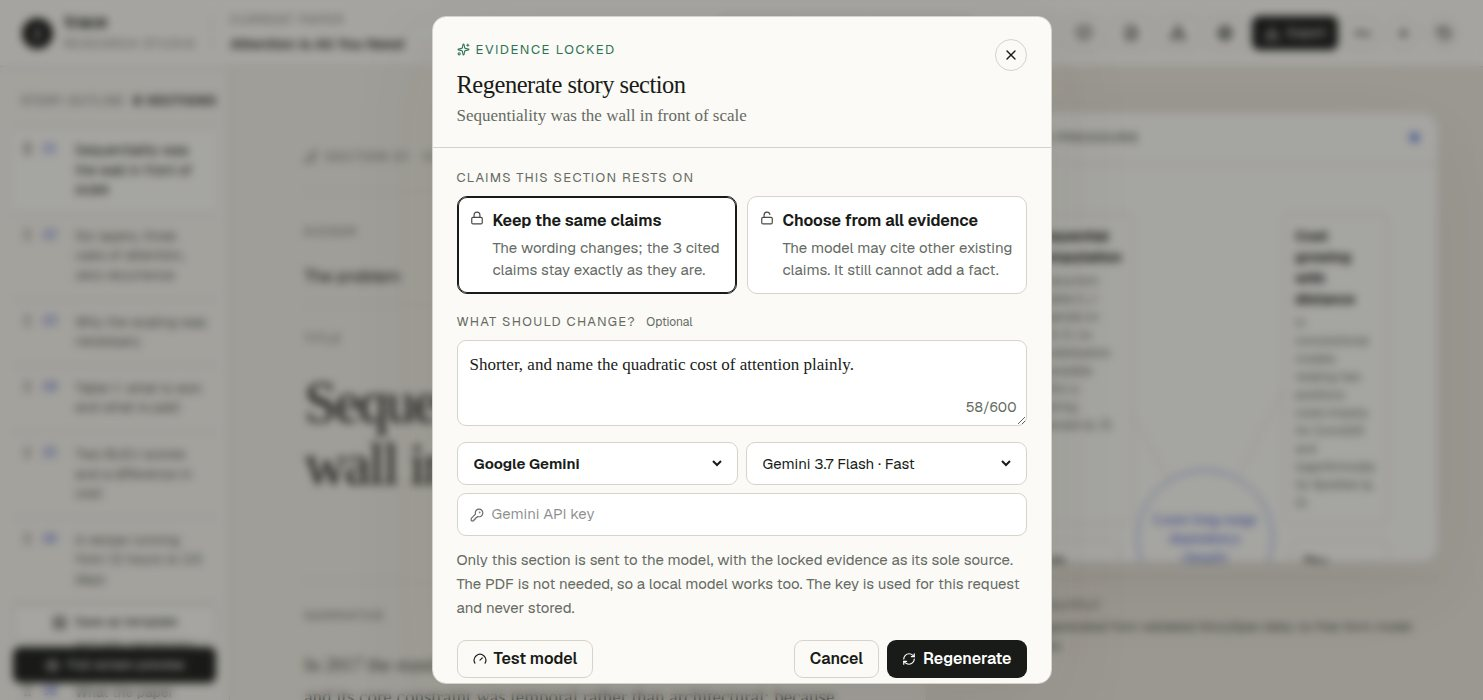
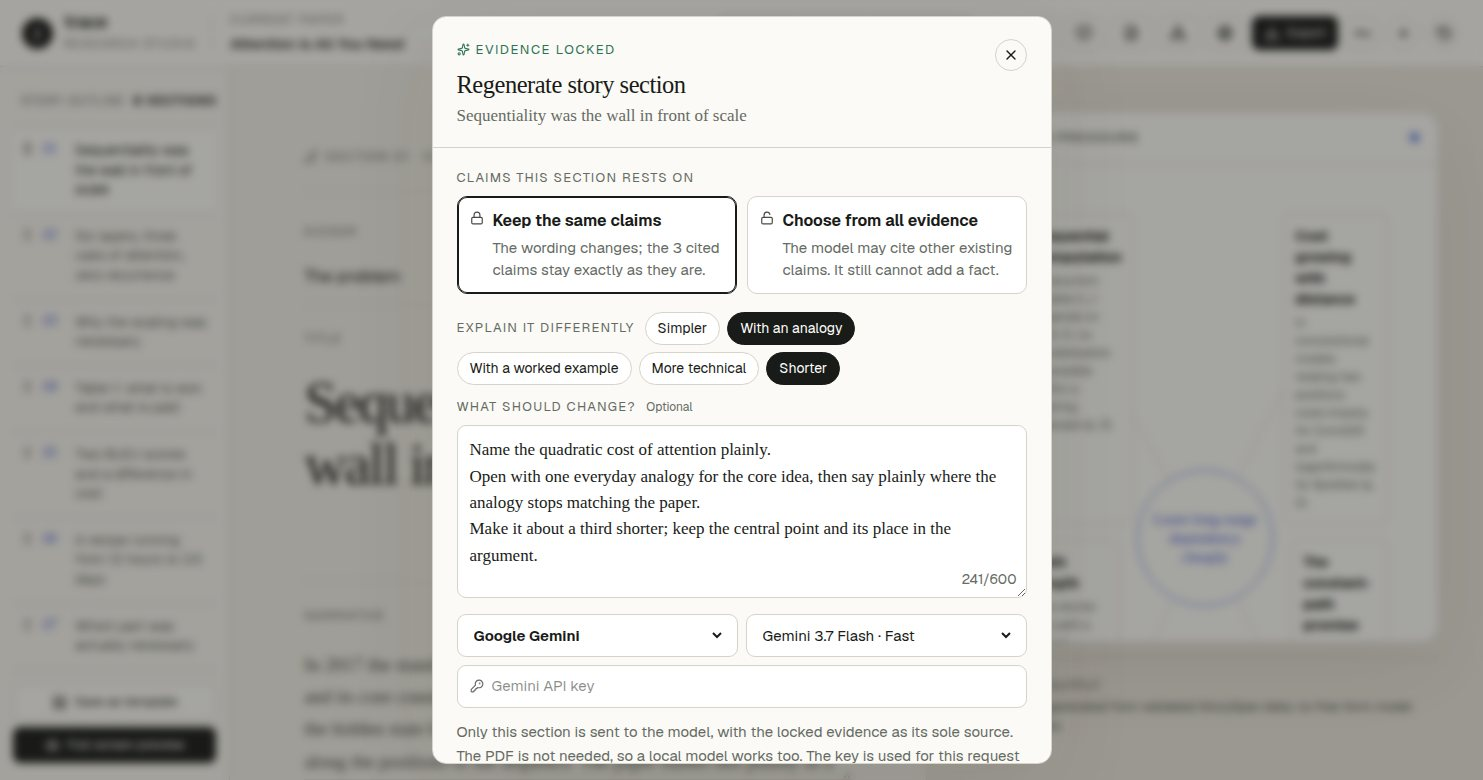
feat: one click asks for a section explained differently
The regenerate dialog now offers quick requests per kind of section:
simpler, with an analogy, with a worked example, more technical or
shorter for story and report sections; harder, easier or a misconception
test for quiz questions; smaller steps or intuition first for
derivations; symbol-by-symbol readings for equations. Each request lands
in the text box as a plain line, so the reader sees and can edit what the
model receives. Requests combine, opposite ones replace each other, and
a request that would overflow the limit is disabled instead of cutting
the reader's own text. Worked-example requests keep the evidence rule:
numbers come from the paper or are marked illustrative.

Claude-Session: https://claude.ai/code/session_01G2h2AZCsPvmxhdU5Cg5ADb

diff --git a/src/lib/rewrite-presets.ts b/src/lib/rewrite-presets.ts
@@ -1,0 +1,170 @@
+import { MAX_REGENERATION_INSTRUCTION, type SectionKind } from "./section-regeneration";
+
+/**
+ * "Farklı anlat" için hazır istekler.
+ *
+ * Okuyucu çoğu zaman ne istediğini biliyor ("daha basit", "bir benzetmeyle")
+ * ama bunu modele nasıl söyleyeceğini bilmiyor; boş bir metin kutusu bu
+ * yüzden çoğunlukla boş gönderiliyordu. Her hazır istek kutuya bir satır
+ * olarak ekleniyor: okuyucu ne gönderileceğini görüyor, birleştirebiliyor ve
+ * düzenleyebiliyor. İstekler kanıt kilidini gevşetmiyor; sayı isteyenler
+ * sayının kanıttan gelmesini ya da açıkça temsilî olduğunu söylüyor.
+ *
+ * Model istemi İngilizce; model okuyucuya yine projenin dilinde yazıyor.
+ */
+export type RewritePreset = {
+  id: string;
+  label: string;
+  instruction: string;
+  /** Birlikte anlamsız olan istekler ("daha basit" ile "daha teknik"). */
+  excludes?: readonly string[];
+};
+
+const simpler = (excludes: string[] = ["technical"]): RewritePreset => ({
+  id: "simpler",
+  label: "Simpler",
+  instruction: "Explain it more simply: shorter sentences, everyday words, and define each technical term where it first appears.",
+  excludes,
+});
+
+const analogy: RewritePreset = {
+  id: "analogy",
+  label: "With an analogy",
+  instruction: "Open with one everyday analogy for the core idea, then say plainly where the analogy stops matching the paper.",
+};
+
+const evidenceExample: RewritePreset = {
+  id: "example",
+  label: "With a worked example",
+  instruction: "Walk through one concrete example, step by step. Use only numbers the evidence reports; if none fit, keep the example qualitative.",
+};
+
+const technical: RewritePreset = {
+  id: "technical",
+  label: "More technical",
+  instruction: "Be more technical: name the mechanism precisely, keep the paper's own terms and notation, and drop the introductory framing.",
+  excludes: ["simpler"],
+};
+
+const shorter: RewritePreset = {
+  id: "shorter",
+  label: "Shorter",
+  instruction: "Make it about a third shorter; keep the central point and its place in the argument.",
+};
+
+export const REWRITE_PRESETS: Record<SectionKind, readonly RewritePreset[]> = {
+  story: [simpler(), analogy, evidenceExample, technical, shorter],
+  report: [
+    simpler(),
+    {
+      id: "separate",
+      label: "Measured vs. interpreted",
+      instruction: "Separate clearly what the authors measured from how they interpret it, and say what the evidence does not show.",
+    },
+    evidenceExample,
+    technical,
+    shorter,
+  ],
+  primer: [
+    simpler([]),
+    analogy,
+    {
+      id: "example",
+      label: "With a worked example",
+      instruction: "Add one small worked example with concrete numbers; take them from the evidence where possible and say when a number is only for illustration.",
+    },
+    {
+      id: "connect",
+      label: "Tie it to the paper",
+      instruction: "Say exactly where this paper relies on the concept, and what a reader who skipped it would misunderstand.",
+    },
+  ],
+  quiz: [
+    {
+      id: "harder",
+      label: "Harder",
+      instruction: "Make it harder: test reasoning about why the result holds, not recall of a number or a phrase.",
+      excludes: ["easier"],
+    },
+    {
+      id: "easier",
+      label: "Easier",
+      instruction: "Make it easier: ask about the paper's central point in plain words, with one clearly right option.",
+      excludes: ["harder"],
+    },
+    {
+      id: "misconception",
+      label: "Test a misconception",
+      instruction: "Build the wrong options from plausible misreadings of the paper, such as taking the authors' interpretation for a measured result.",
+    },
+    {
+      id: "explain",
+      label: "Better explanations",
+      instruction: "Make every option's explanation say why it is right or wrong, pointing at the evidence it rests on.",
+    },
+  ],
+  derivation: [
+    {
+      id: "smaller",
+      label: "Smaller steps",
+      instruction: "Use smaller steps: one operation per step, and say which assumption each step uses.",
+    },
+    {
+      id: "intuition",
+      label: "Intuition first",
+      instruction: "Before the steps, say in one or two sentences what the derivation shows and why the paper needs it.",
+    },
+    {
+      id: "example",
+      label: "With a worked example",
+      instruction: "Add a numeric example that follows the steps. Take its numbers from the evidence metrics, or mark the example as illustrative.",
+    },
+  ],
+  equation: [
+    {
+      id: "symbols",
+      label: "Explain each symbol",
+      instruction: "Explain every symbol in plain words, with its unit or shape where it has one.",
+    },
+    {
+      id: "why",
+      label: "Why each term",
+      instruction: "Say what would change without each term, and why the authors need it.",
+    },
+    simpler([]),
+  ],
+};
+
+export function rewritePresets(kind: SectionKind) {
+  return REWRITE_PRESETS[kind];
+}
+
+export function isPresetActive(instruction: string, preset: RewritePreset) {
+  return instruction.includes(preset.instruction);
+}
+
+function withoutPreset(instruction: string, preset: RewritePreset) {
+  if (!isPresetActive(instruction, preset)) return instruction;
+  // Kutuya eklenen satır kendi satırında duruyor; okuyucu onu bir cümlenin
+  // içine taşıdıysa yalnızca o parça çıkıyor.
+  const lines = instruction.split("\n").filter((line) => line.trim() !== preset.instruction);
+  return lines.join("\n").split(preset.instruction).join("").replace(/[ \t]{2,}/g, " ").replace(/\n{3,}/g, "\n\n").trim();
+}
+
+/**
+ * Hazır isteği kutuya ekler ya da kutudan çıkarır. Okuyucunun kendi yazdığı
+ * metin yerinde kalıyor; çelişen istek (daha basit ↔ daha teknik) çıkıyor.
+ * Sonuç sınırı aşacaksa `undefined`: arayüz o düğmeyi kapatıyor.
+ */
+export function togglePreset(kind: SectionKind, instruction: string, id: string): string | undefined {
+  const presets = REWRITE_PRESETS[kind];
+  const preset = presets.find((item) => item.id === id);
+  if (!preset) return instruction;
+  if (isPresetActive(instruction, preset)) return withoutPreset(instruction, preset);
+  const cleared = presets
+    .filter((item) => preset.excludes?.includes(item.id))
+    .reduce((text, item) => withoutPreset(text, item), instruction)
+    .trim();
+  const next = cleared ? `${cleared}\n${preset.instruction}` : preset.instruction;
+  return next.length > MAX_REGENERATION_INSTRUCTION ? undefined : next;
+}

diff --git a/src/lib/rewrite-presets.test.ts b/src/lib/rewrite-presets.test.ts
@@ -1,0 +1,55 @@
+import { describe, expect, it } from "vitest";
+import { REWRITE_PRESETS, isPresetActive, togglePreset } from "./rewrite-presets";
+import { MAX_REGENERATION_INSTRUCTION, sectionKinds } from "./section-regeneration";
+
+describe("quick rewrite requests", () => {
+  it("offers every kind of section a few requests that fit the limit together", () => {
+    for (const kind of sectionKinds) {
+      const presets = REWRITE_PRESETS[kind];
+      expect(presets.length, kind).toBeGreaterThanOrEqual(3);
+      expect(new Set(presets.map((preset) => preset.id)).size, kind).toBe(presets.length);
+      for (const preset of presets) {
+        for (const excluded of preset.excludes ?? []) expect(presets.some((item) => item.id === excluded), `${kind}/${preset.id}`).toBe(true);
+      }
+      // Birbirini dışlamayanların hepsi aynı anda seçilebiliyor.
+      let all = "";
+      for (const preset of presets) {
+        const next = togglePreset(kind, all, preset.id);
+        expect(next, `${kind}/${preset.id}`).toBeDefined();
+        all = next!;
+      }
+      expect(all.length, kind).toBeLessThanOrEqual(MAX_REGENERATION_INSTRUCTION);
+    }
+  });
+
+  it("never asks for numbers the evidence does not have without saying so", () => {
+    for (const kind of sectionKinds) {
+      for (const preset of REWRITE_PRESETS[kind].filter((item) => item.id === "example")) {
+        expect(preset.instruction, `${kind}/${preset.id}`).toMatch(/evidence/);
+        expect(preset.instruction, `${kind}/${preset.id}`).toMatch(/only numbers the evidence|illustrat/);
+      }
+    }
+  });
+
+  it("adds a request on its own line and takes it out again, the reader's text kept", () => {
+    const withAnalogy = togglePreset("story", "Keep the timeline.", "analogy")!;
+    expect(withAnalogy.split("\n")).toEqual(["Keep the timeline.", REWRITE_PRESETS.story.find((preset) => preset.id === "analogy")!.instruction]);
+    expect(togglePreset("story", withAnalogy, "analogy")).toBe("Keep the timeline.");
+  });
+
+  it("swaps out the opposite request instead of sending both", () => {
+    const simpler = togglePreset("story", "", "simpler")!;
+    const technical = togglePreset("story", simpler, "technical")!;
+    const [simplerPreset, technicalPreset] = ["simpler", "technical"].map((id) => REWRITE_PRESETS.story.find((preset) => preset.id === id)!);
+    expect(isPresetActive(technical, technicalPreset)).toBe(true);
+    expect(isPresetActive(technical, simplerPreset)).toBe(false);
+    const easier = togglePreset("quiz", togglePreset("quiz", "", "harder")!, "easier")!;
+    expect(easier).toBe(REWRITE_PRESETS.quiz.find((preset) => preset.id === "easier")!.instruction);
+  });
+
+  it("refuses a request that would not fit, rather than cutting the reader's text", () => {
+    const full = "x".repeat(MAX_REGENERATION_INSTRUCTION - 20);
+    expect(togglePreset("story", full, "shorter")).toBeUndefined();
+    expect(togglePreset("story", full, "unknown")).toBe(full);
+  });
+});

diff --git a/e2e/studio.spec.ts b/e2e/studio.spec.ts
@@ -6,6 +6,7 @@ import type { ResearchProject } from "../src/lib/schema";
 import { UNDO_WINDOW_MS } from "../src/lib/pending-deletion";
 import { TRACE_ACCENT_PALETTE } from "../src/lib/trace-storage";
 import { readingDrillFor } from "../src/lib/reading-drill";
+import { REWRITE_PRESETS } from "../src/lib/rewrite-presets";
 
 /**
  * Stüdyonun paneller arası akışları. Model çağrısı gereken iki uç
@@ -106,6 +107,42 @@ test.describe("section regeneration", () => {
       const { revisions } = (await response.json()) as { revisions: Array<{ reason: string }> };
       return revisions.map((revision) => revision.reason);
     }).toContain("regenerate");
+  });
+
+  test("turns a quick request into the instruction the model receives", async ({ page, request }) => {
+    const project = await seed(request, projectNamed("e2e-presets"));
+    const section = project.story.sections[0];
+    const preset = (id: string) => REWRITE_PRESETS.story.find((item) => item.id === id)!.instruction;
+    let sent = "";
+
+    await page.route("**/api/regenerate", async (route) => {
+      sent = (route.request().postDataJSON() as { instruction: string }).instruction;
+      await route.fulfill({
+        status: 200,
+        headers: { "Content-Type": "application/x-ndjson" },
+        body: `${JSON.stringify({ type: "section", target: { kind: "story", sectionId: section.id }, section: { ...section, body: "Simpler, with an analogy." }, evidenceFingerprint: evidenceFingerprint(project.evidence) })}\n`,
+      });
+    });
+
+    await openStory(page, project.id);
+    await page.locator(".regen-trigger").first().click();
+    const dialog = page.getByRole("dialog");
+    const quick = dialog.getByRole("group", { name: "Quick requests" });
+    const field = dialog.getByRole("textbox", { name: /What should change/ });
+
+    await field.fill("Keep the timeline.");
+    await quick.getByRole("button", { name: "More technical" }).click();
+    await quick.getByRole("button", { name: "With an analogy" }).click();
+    // "Simpler" ile "More technical" birlikte gönderilmiyor.
+    await quick.getByRole("button", { name: "Simpler" }).click();
+    await expect(quick.getByRole("button", { name: "Simpler" })).toHaveAttribute("aria-pressed", "true");
+    await expect(quick.getByRole("button", { name: "More technical" })).toHaveAttribute("aria-pressed", "false");
+    await expect(field).toHaveValue(["Keep the timeline.", preset("analogy"), preset("simpler")].join("\n"));
+
+    await dialog.getByLabel("Gemini API key").fill("test-key");
+    await dialog.getByRole("button", { name: "Regenerate", exact: true }).click();
+    await expect(page.locator(".regen-preview").nth(1)).toContainText("Simpler, with an analogy.");
+    expect(sent).toBe(["Keep the timeline.", preset("analogy"), preset("simpler")].join("\n"));
   });
 
   test("rewrites one quiz question in the practice tab", async ({ page, request }) => {

diff --git a/src/app/globals.css b/src/app/globals.css
@@ -483,9 +483,15 @@ span.library-tag { cursor: default; }
 .regen-policy svg { flex: 0 0 auto; margin-top: 2px; color: var(--ink-soft); }
 .regen-policy b { display: block; font-size: var(--text-base); font-weight: 650; }
 .regen-policy small { display: block; margin-top: 4px; color: var(--muted); font-size: var(--text-md); line-height: 1.45; }
+.regen-presets { display: flex; flex-wrap: wrap; align-items: center; gap: 7px; margin: 0 0 12px; }
+.regen-presets > span { margin-right: 3px; color: var(--muted); font-size: var(--text-xs); text-transform: uppercase; letter-spacing: .1em; }
+.regen-preset { min-height: 32px; padding: 5px 12px; border: 1px solid var(--line); border-radius: 20px; background: var(--field); color: var(--ink); cursor: pointer; font-size: var(--text-sm); }
+.regen-preset:hover:not(:disabled) { border-color: var(--ink); }
+.regen-preset[aria-pressed="true"] { border-color: var(--ink); background: var(--ink); color: var(--on-ink); }
+.regen-preset:disabled { opacity: .45; cursor: default; }
 .regen-field { position: relative; display: block; color: var(--muted); font-size: var(--text-xs); text-transform: uppercase; letter-spacing: .1em; }
 .regen-field > small { margin-left: 6px; text-transform: none; letter-spacing: 0; }
-.regen-field textarea { width: 100%; min-height: 86px; display: block; margin-top: 9px; padding: 11px 12px; resize: vertical; border: 1px solid var(--line); border-radius: 9px; outline: 0; background: var(--field); color: var(--ink); font: var(--text-lg)/1.55 Georgia, serif; text-transform: none; letter-spacing: 0; }
+.regen-field textarea { width: 100%; min-height: 86px; max-height: 240px; field-sizing: content; display: block; margin-top: 9px; padding: 11px 12px 28px; resize: vertical; border: 1px solid var(--line); border-radius: 9px; outline: 0; background: var(--field); color: var(--ink); font: var(--text-lg)/1.55 Georgia, serif; text-transform: none; letter-spacing: 0; }
 .regen-count { color: var(--muted); font-size: var(--text-sm); letter-spacing: 0; text-transform: none; }
 .regen-field .regen-count { position: absolute; right: 10px; bottom: 8px; }
 .regen-model { display: grid; grid-template-columns: 1fr 1fr; gap: 8px; margin-top: 16px; }

diff --git a/src/components/section-regenerator.tsx b/src/components/section-regenerator.tsx
@@ -30,6 +30,7 @@ import {
   type RegenerationGoal,
   type SectionTarget,
 } from "@/lib/section-regeneration";
+import { isPresetActive, rewritePresets, togglePreset } from "@/lib/rewrite-presets";
 import { MathText } from "@/visuals";
 import { VisualRenderer } from "./visual-renderer";
 
@@ -265,6 +266,27 @@ export function SectionRegenerator({ project, target, goal = "revise", claimPoli
                 <span><b>Choose from all evidence</b><small>The model may cite other existing claims. It still cannot add a fact.</small></span>
               </label>
             </fieldset>
+
+            <div className="regen-presets" role="group" aria-label="Quick requests">
+              <span>Explain it differently</span>
+              {rewritePresets(target.kind).map((preset) => {
+                const active = isPresetActive(instruction, preset);
+                const next = togglePreset(target.kind, instruction, preset.id);
+                return (
+                  <button
+                    key={preset.id}
+                    type="button"
+                    className="regen-preset"
+                    aria-pressed={active}
+                    disabled={next === undefined}
+                    title={preset.instruction}
+                    onClick={() => { if (next !== undefined) setInstruction(next); }}
+                  >
+                    {preset.label}
+                  </button>
+                );
+              })}
+            </div>
 
             <label className="regen-field">
               What should change? <small>Optional</small>

diff --git a/README.md b/README.md
@@ -390,6 +390,14 @@ equation in the technical appendix can each be rewritten on its own. Each keeps 
 quiz question needs the right number of correct options, a derivation stays attached to its
 equation, and a concept other concepts build on keeps its subject.
 
+Not sure how to ask for a better version? **Explain it differently** fills the request in one
+click: *Simpler*, *With an analogy*, *With a worked example*, *More technical* or *Shorter* for a
+section; *Harder*, *Easier* or *Test a misconception* for a quiz question; *Smaller steps* or
+*Intuition first* for a derivation; *Explain each symbol* for an equation. Requests combine, and
+opposite ones replace each other. Each one lands in the text box as a plain sentence, so you see
+and can edit exactly what the model receives, and none of them loosens the evidence lock: a worked
+example uses the paper's numbers, or says that its numbers are only illustrative.
+
 ![Regenerate a section](docs/images/regenerate.jpg)
 
 ```text
